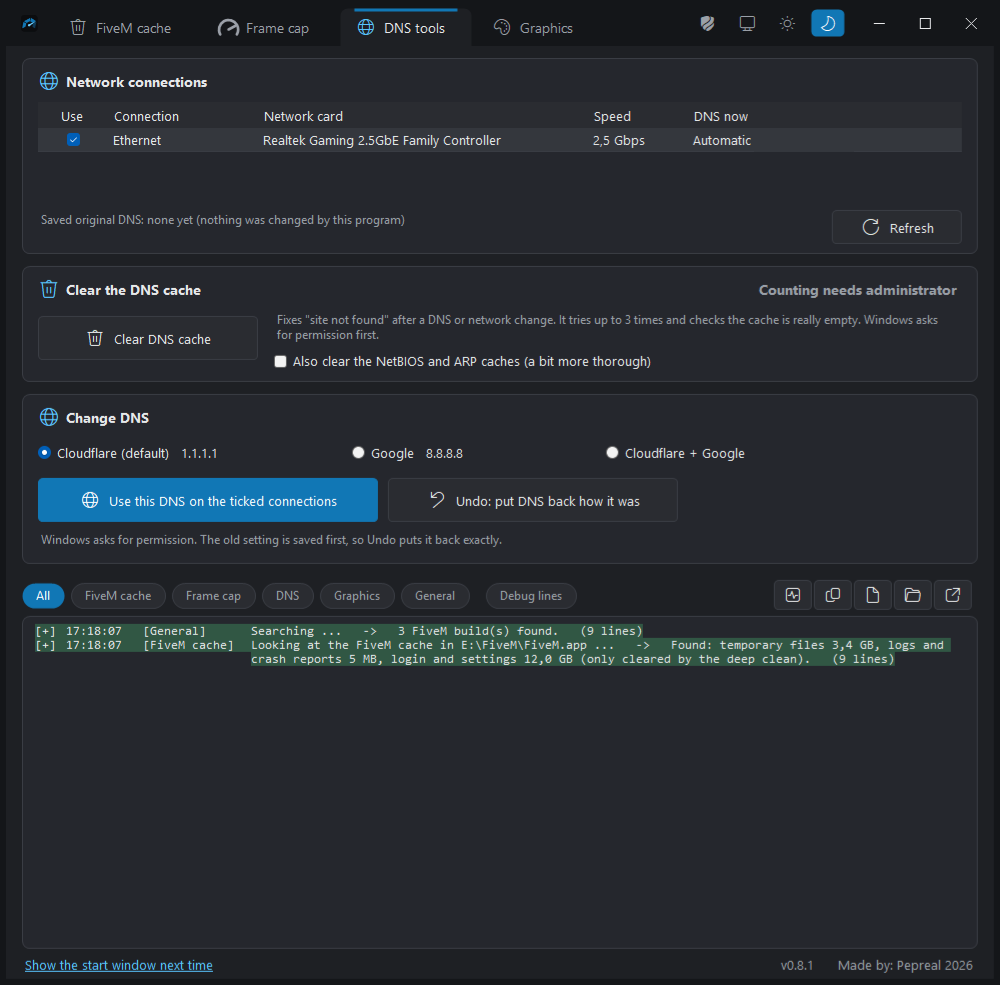
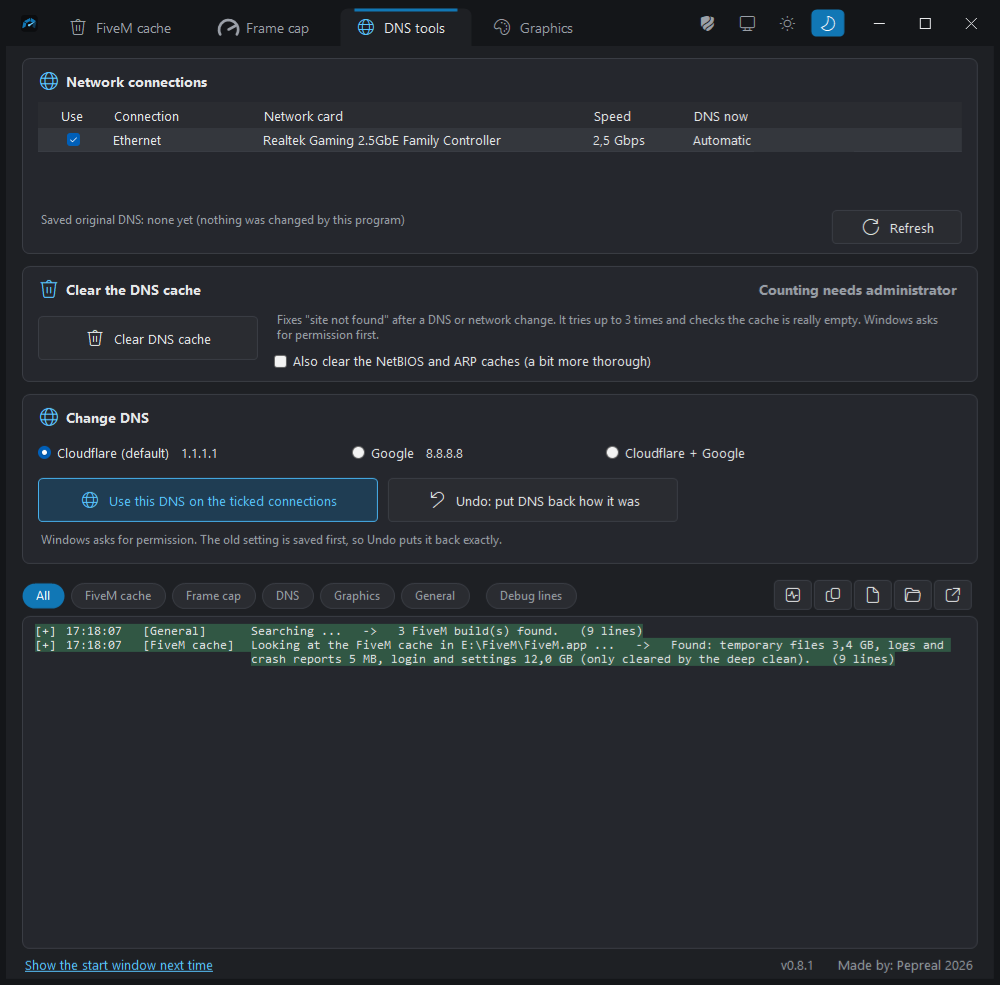
FiveM Toolbox (after 0.8.1) - the blue buttons are an outline
- The blue buttons (Apply cap, Clean cache, Use this DNS, Save the settings, the start window buttons)
  have a dark blue fill, a blue border and blue text, in the dark and the light theme.
  The red Reset button stays a solid block. A blue button that is switched off is grey.
- The README pictures show the new buttons. New "Unreleased" section in the changelog.
- --review-test has 12 more checks; 5 planted faults caught.

Changed region(s): [[0.031, 0.4873, 0.403, 0.5482]]

diff --git a/source/FiveMToolbox.cs b/source/FiveMToolbox.cs
@@ -3346,19 +3346,26 @@ namespace FiveMFrameCap
             }
         }
 
-        protected override void OnPaint(PaintEventArgs e)
+        // The colours of the button now. A main button (tag "primary", the blue ones) is an OUTLINE: a dark blue fill (the colour behind it with some blue in it),
+        // a blue border and blue text, like the "Start challenge" button of the bot's page. The red danger button is a solid block. Also used by --review-test.
+        public void ButtonColors(out Color back, out Color fore, out Color border)
         {
-            Graphics g = e.Graphics;
-            g.SmoothingMode = SmoothingMode.AntiAlias;
             string tag = Tag as string;
             bool danger = tag == "danger";
-            bool main = tag == "primary" || tag == "tabon" || danger;
-            Color mainBase = danger ? Theme.Bad : Theme.Primary;
-            Color back, fore, border;
+            bool outlined = tag == "primary" || tag == "tabon";
+            Color behind = Parent != null ? Parent.BackColor : Theme.Bg1;
+            bool dark = Theme.IsDark;
             if (!Enabled) { back = Theme.Bg3; fore = Theme.Text2; border = Theme.Border; }
-            else if (main)
+            else if (outlined)
             {
-                back = down ? Shade(mainBase, -0.15f) : Fx.Mix(mainBase, Shade(mainBase, 0.12f), hv.Value);
+                float tint = down ? (dark ? 0.20f : 0.08f) : (dark ? 0.28f : 0.12f) + hv.Value * (dark ? 0.12f : 0.08f);
+                back = Fx.Mix(behind, Theme.Primary, tint);
+                fore = dark ? Theme.AccentText : Shade(Theme.AccentText, -0.25f);   // on the light theme a darker blue: the plain blue is too pale on the light fill
+                border = dark ? Fx.Mix(Fx.Mix(Theme.Primary, Theme.AccentText, 0.75f), Theme.AccentText, hv.Value) : Fx.Mix(Theme.Primary, Shade(Theme.Primary, -0.20f), hv.Value);
+            }
+            else if (danger)
+            {
+                back = down ? Shade(Theme.Bad, -0.15f) : Fx.Mix(Theme.Bad, Shade(Theme.Bad, 0.12f), hv.Value);
                 fore = Color.White; border = back;
             }
             else
@@ -3366,12 +3373,22 @@ namespace FiveMFrameCap
                 back = down ? Theme.Bg2 : Fx.Mix(Theme.Bg3, Theme.Bg4, hv.Value);
                 fore = Theme.Text; border = Fx.Mix(Theme.Border, Theme.Primary, hv.Value * 0.7f);
             }
+        }
+
+        protected override void OnPaint(PaintEventArgs e)
+        {
+            Graphics g = e.Graphics;
+            g.SmoothingMode = SmoothingMode.AntiAlias;
+            string tag = Tag as string;
+            bool outlined = Enabled && (tag == "primary" || tag == "tabon");
+            Color back, fore, border;
+            ButtonColors(out back, out fore, out border);
             g.Clear(Parent != null ? Parent.BackColor : Theme.Bg1);
             Rectangle r = new Rectangle(0, 0, Width - 1, Height - 1);
             using (GraphicsPath path = Rounded(r, Dpi.S(8)))
             {
                 using (Brush b = new SolidBrush(back)) g.FillPath(b, path);
-                using (Pen pen = new Pen(border)) g.DrawPath(pen, path);
+                using (Pen pen = new Pen(border, outlined ? Dpi.F(1.25f) : 1f)) g.DrawPath(pen, path);
             }
 
             // icon and text, centred together
@@ -10601,6 +10618,30 @@ namespace FiveMFrameCap
                     int[] gp = cf.TestCacheGoPlaces();
                     rck(gp[0] == gp[5] && gp[1] == gp[6], "the desktop icon button has the left and the right edge of Clean cache (left " + gp[0] + ", width " + gp[1] + " against " + gp[5] + ", " + gp[6] + ")");
                     rck(gp[3] == gp[7] && Math.Abs(gp[2] - gp[4]) <= 1, "its text starts under Start FiveM (" + gp[3] + " against " + gp[7] + ") and is on the height of the button (" + gp[4] + " against " + gp[2] + ")");
+                    // the blue buttons are an outline (dark blue fill, blue border, blue text) in both themes; the red one stays a solid block
+                    Func<Color, double> lum = delegate(Color c0)
+                    {
+                        Func<int, double> ch = delegate(int v) { double x0 = v / 255.0; return x0 <= 0.03928 ? x0 / 12.92 : Math.Pow((x0 + 0.055) / 1.055, 2.4); };
+                        return 0.2126 * ch(c0.R) + 0.7152 * ch(c0.G) + 0.0722 * ch(c0.B);
+                    };
+                    Func<Color, Color, double> contrast = delegate(Color c1, Color c2) { double l1 = lum(c1), l2 = lum(c2); return (Math.Max(l1, l2) + 0.05) / (Math.Min(l1, l2) + 0.05); };
+                    foreach (string themeName in new string[] { "dark", "light" })
+                    {
+                        Theme.Force(themeName);
+                        IconButton pb = new IconButton(); pb.Tag = "primary";
+                        Color pbBack, pbFore, pbBorder; pb.ButtonColors(out pbBack, out pbFore, out pbBorder);
+                        rck(pbBack != Theme.Primary && contrast(pbBack, Theme.Bg1) < 3.0, themeName + ": the blue button is not a solid blue block (fill " + pbBack.Name + ")");
+                        rck(pbBack != Theme.Bg1 && Math.Abs(lum(pbBack) - lum(Theme.Bg1)) > 0.01, themeName + ": its fill has some blue in it (it is not the colour behind it)");
+                        rck(contrast(pbFore, pbBack) >= 4.5, themeName + ": its text is easy to read (contrast " + contrast(pbFore, pbBack).ToString("0.0", System.Globalization.CultureInfo.InvariantCulture) + ")");
+                        rck(contrast(pbBorder, pbBack) >= 2.0, themeName + ": its border shows (contrast " + contrast(pbBorder, pbBack).ToString("0.0", System.Globalization.CultureInfo.InvariantCulture) + ")");
+                        IconButton db = new IconButton(); db.Tag = "danger";
+                        Color dbBack, dbFore, dbBorder; db.ButtonColors(out dbBack, out dbFore, out dbBorder);
+                        rck(dbBack == Theme.Bad && dbFore == Color.White, themeName + ": the red danger button is still a solid block with white text");
+                        IconButton off = new IconButton(); off.Tag = "primary"; off.Enabled = false;
+                        Color offBack, offFore, offBorder; off.ButtonColors(out offBack, out offFore, out offBorder);
+                        rck(offBack == Theme.Bg3 && offFore == Theme.Text2, themeName + ": a blue button that is switched off is grey");
+                    }
+                    Theme.Force("dark");
                     string fcredit; int[] fpl = cf.TestFooterPlaces(out fcredit);
                     rck(fcredit == "v" + Info.Version + "      Made by: " + Info.Owner + " " + Info.Year, "the footer credit reads like the one of the FiveM Server Manager: " + fcredit);
                     rck(fpl[0] <= 1 && fpl[1] < fpl[2] && fpl[4] - fpl[3] <= 2, "the link to the start window is on the left and the credit on the right (link " + fpl[0] + "-" + fpl[1] + ", credit " + fpl[2] + "-" + fpl[3] + " of " + fpl[4] + ")");

diff --git a/CHANGELOG.md b/CHANGELOG.md
@@ -5,6 +5,10 @@ Tags: NEW, CHANGED, FIXED.
 
 ---
 
+## Unreleased
+
+**CHANGED** - **The blue buttons are an outline.** *The big blue buttons (Apply cap, Clean cache, Use this DNS, Save the settings, and the "I understand" buttons) were a solid blue block with white text. Now they have a dark blue fill, a blue border and blue text. It is the same in the dark and the light theme, the text is easy to read on both (checked by a self test), and a blue button that is switched off is grey. The red button of the Reset stays a solid block. The README pictures show the new look.*
+
 ## v0.8.1 - 2026-11-11 (latest)
 
 **NEW** - **A build that Radeon Software does not know yet is added by the program (AMD).** *Before, the program said "Not in Radeon Software yet" and you had to add the build by hand in Radeon Software (Gaming > Games). Now Apply does it: it makes a profile for the build through AMD's own library (the library Radeon Software uses itself), copied from the profile of another FiveM build, with Radeon Chill on and your cap in both values. Radeon Software closes for a moment and opens again, like for every change, and the program checks that AMD shows the new value. The build also shows in the Radeon Software list of games (Gaming > Games): a build that you removed there shows again, and a build that is not in the list gets a new entry. Undo takes the build out of Radeon Software again and hides it in the list, like the Remove button does. There must be one FiveM build in Radeon Software with Radeon Chill values to copy from; if there is none, the program still says to add one by hand. Tested on an AMD Radeon RX 9070 XT.*
